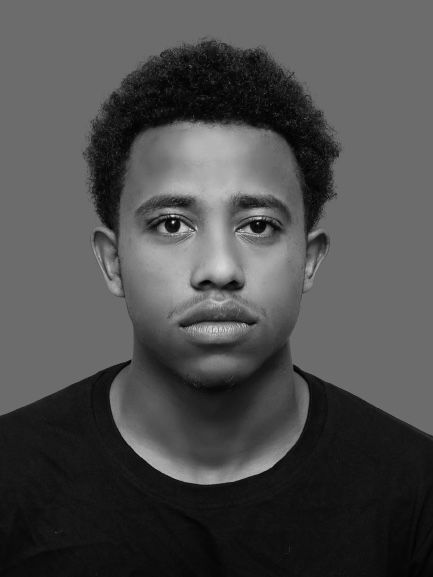
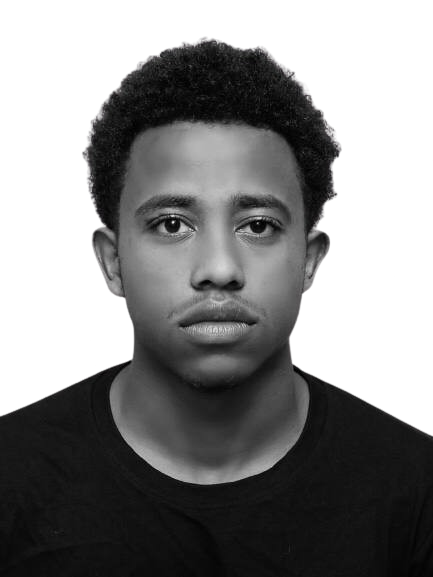
test

diff --git a/src/app/pages/ContributorsPage.tsx b/src/app/pages/ContributorsPage.tsx
@@ -49,7 +49,7 @@ export function ContributorsPage() {
             {/* Opacity photo watermark - face clearly visible in top right, smoothly blended */}
             <div className="pointer-events-none absolute -right-2 -top-2 overflow-hidden rounded-2xl">
               <img
-                src="/uploads/contributors/Nahom.PNG"
+                src="/uploads/contributors/Nahom.png"
                 alt="Nahom Bekele"
                 className="h-44 w-44 sm:h-48 sm:w-48 object-cover opacity-50 transition-all duration-300 group-hover:opacity-75 group-hover:scale-105 select-none"
                 style={{
@@ -104,7 +104,7 @@ export function ContributorsPage() {
             {/* Opacity photo watermark - face clearly visible in top right, smoothly blended */}
             <div className="pointer-events-none absolute -right-2 -top-2 overflow-hidden rounded-2xl">
               <img
-                src="/uploads/contributors/Abrham.jpg"
+                src="/uploads/contributors/Abrham.png"
                 alt="Abrham Wendesen"
                 className="h-44 w-44 sm:h-48 sm:w-48 object-cover opacity-50 transition-all duration-300 group-hover:opacity-75 group-hover:scale-105 select-none"
                 style={{
